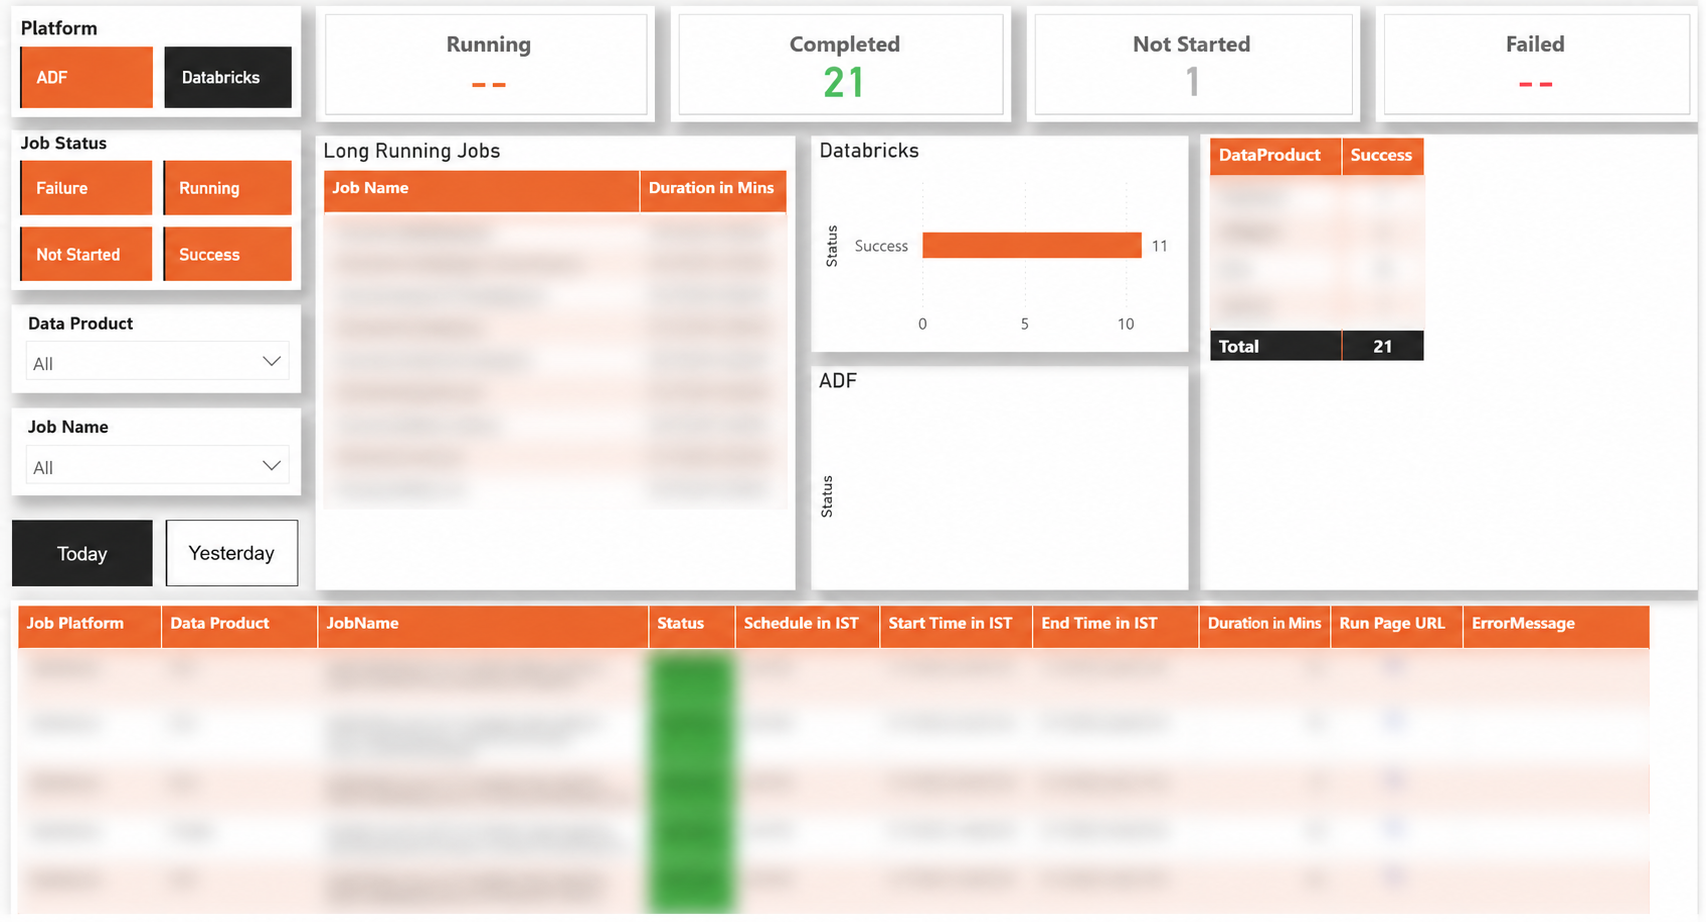
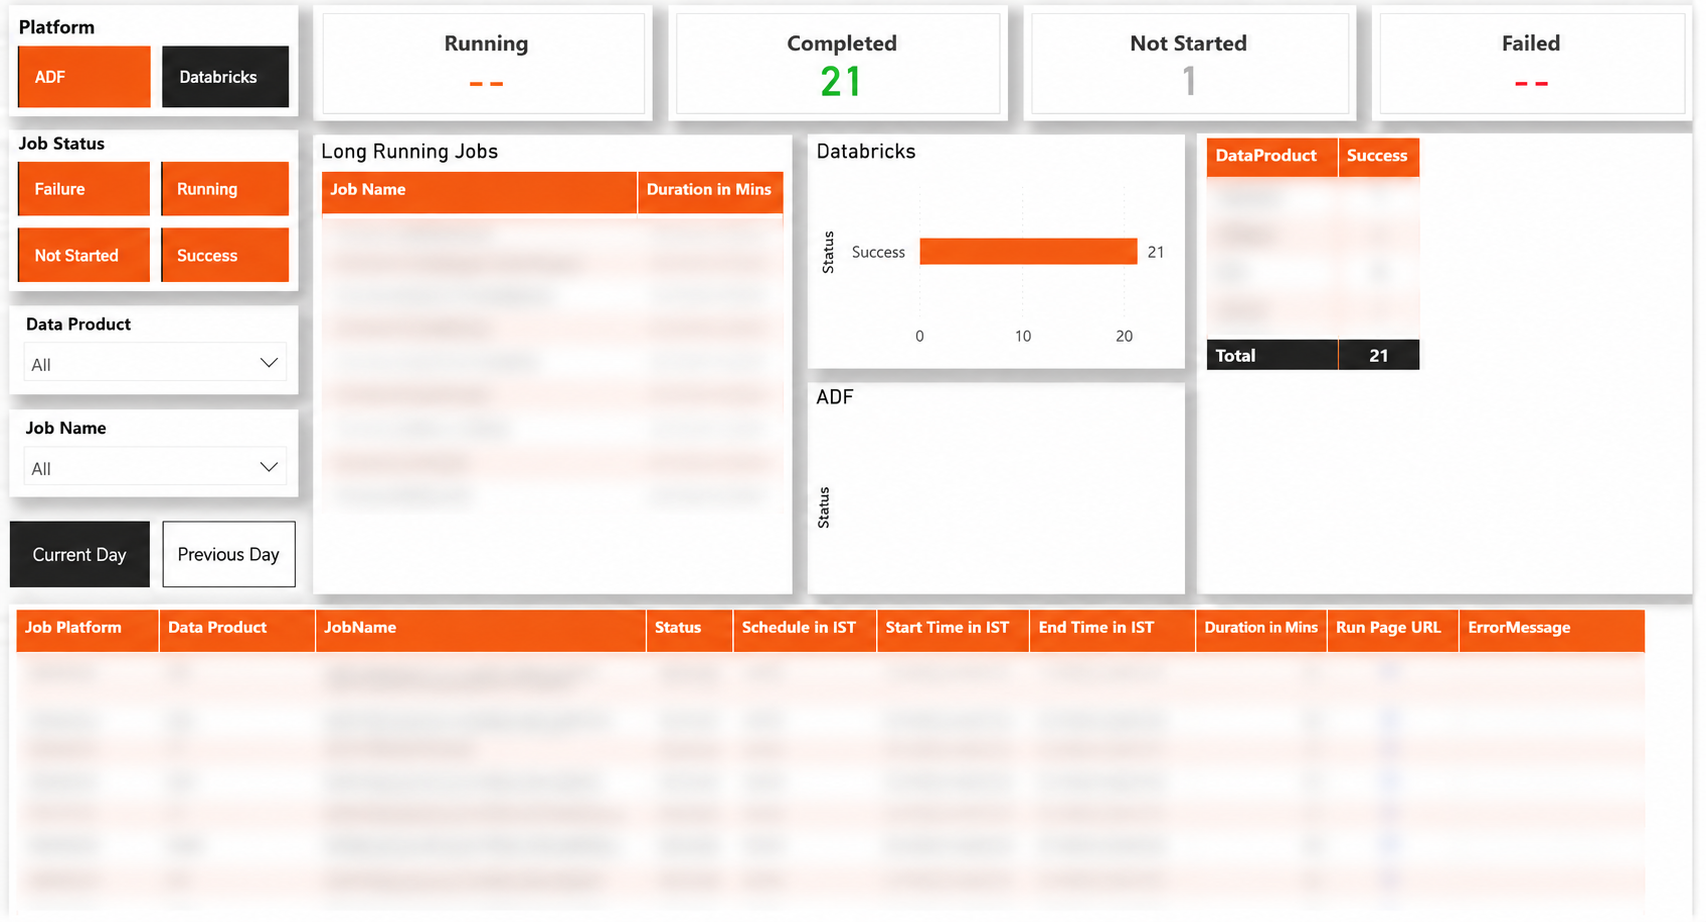
Add system improvements, update architecture docs, and enhance SQL views

diff --git a/src/adf_monitor/adf_jobs.py b/src/adf_monitor/adf_jobs.py
@@ -241,24 +241,31 @@ def databaseUpdater(jobs, error_message: str, schedule: str, Data_factory: str,
 
     incident_number = None
 
-    if status == 'Failed':
-        try:
-            incident_number = create_servicenow_incident(
-                Instance,
-                pipeline_name,
-                error_message.replace("''", "'"),
-                urgency="3",
-                impact="3",
-                run_url=RunPageURL
-            )
-        except Exception as e:
-            logging.error(f"[ERROR] ServiceNow incident creation failed for {pipeline_name}: {e}")
-
     conn = None
     cursor = None
     try:
         conn = get_db_connection()
         cursor = conn.cursor()
+ 
+        if status == 'Failed':
+            check_query = "SELECT 1 FROM [jobmonitoring].[jobRuns] WHERE JobRunId = ? AND Status = 'FAILURE'"
+            cursor.execute(check_query, JobRunId)
+            already_failed = cursor.fetchone()
+ 
+            if already_failed:
+                logging.info(f"RunId {JobRunId} already logged as Failed for {pipeline_name}. Skipping incident creation and alert.")
+            else:
+                try:
+                    incident_number = create_servicenow_incident(
+                        Instance,
+                        pipeline_name,
+                        error_message.replace("''", "'"),
+                        urgency="3",
+                        impact="3",
+                        run_url=RunPageURL
+                    )
+                except Exception as e:
+                    logging.error(f"[ERROR] ServiceNow incident creation failed for {pipeline_name}: {e}")
 
         # Use parameter binding for safety and correctness
         query = """

diff --git a/README.md b/README.md
@@ -8,7 +8,19 @@
 
 ## 📋 Overview
 
-This system automates the monitoring of **150+ ADF pipelines** and **45+ Databricks jobs** across **30 data products**, eliminating approximately **25 hours/week** of manual monitoring effort for a team of 25 engineers.
+This system automates the monitoring of **ADF pipelines** and **Databricks jobs** across multiple data products, providing real-time failure detection, automated alerting, and incident management. The architecture is fully config-driven — adding a new pipeline or job requires a single INSERT statement in the master table, making it horizontally scalable to any number of pipelines, jobs, and data products without code changes.
+
+### Scalability & Effort Savings
+
+The automation's impact scales linearly with the number of monitored jobs. Here's an example:
+
+| Scenario | Pipelines & Jobs | Team Size | Manual Effort Replaced |
+|----------|-----------------|-----------|----------------------|
+| Small team | 50 pipelines, 15 Databricks jobs | 10 engineers | ~8–10 hours/week |
+| Medium team | 150 pipelines, 45 Databricks jobs | 25 engineers | ~20–25 hours/week |
+| Large team | 500 pipelines, 100 Databricks jobs | 50 engineers | ~60–75 hours/week |
+
+**How the estimate works**: Each pipeline/job requires ~2–3 minutes of manual status checking per day (opening the portal, navigating to the run, checking status, noting failures). With 200 scheduled executions daily, that's ~400–600 minutes (~7–10 hours) of checking alone. Add failure triage (~30 min/day), incident creation (~15 min/day), status reporting (~20 min/day), and re-trigger follow-up (ongoing) — the total effort becomes substantial. This automation reduces all of it to zero manual effort.
 
 ### What It Does
 
@@ -19,7 +31,7 @@ This system automates the monitoring of **150+ ADF pipelines** and **45+ Databri
 | **Incident Management** | Automatically creates ServiceNow incidents with smart deduplication (one per pipeline per day) |
 | **Self-Healing Dashboard** | Rechecks failed jobs every 15 minutes — auto-corrects status when manual re-triggers succeed |
 | **Long-Running Detection** | Tiered threshold algorithm flags jobs exceeding expected duration |
-| **Centralized Dashboard** | SQL views powering a Power BI dashboard with real-time status, failure logs, and 7-day historical trends |
+| **Centralized Dashboard** | SQL views powering a Power BI dashboard with real-time status (current + previous day) and failure logs |
 
 ---
 
@@ -31,12 +43,12 @@ The system follows an event-driven, serverless architecture deployed entirely on
 ┌──────────────────┐     REST API      ┌───────────────────────┐     HTTP POST     ┌─────────────────┐
 │  Azure Data      │◄─────────────────►│  Azure Functions      │─────────────────►│  Azure Logic App │
 │  Factory         │                   │  (Python, Timer)      │                   │  → Teams Alerts  │
-│  150+ Pipelines  │                   │                       │                   └─────────────────┘
+│  ADF Pipelines   │                   │                       │                   └─────────────────┘
 └──────────────────┘                   │  ┌─────────────────┐  │     REST API     ┌─────────────────┐
                                        │  │ ADF Monitor     │  │─────────────────►│  ServiceNow     │
 ┌──────────────────┐     REST API      │  │ (every 5 min)   │  │                   │  Auto Incidents  │
 │  Databricks      │◄─────────────────►│  ├─────────────────┤  │                   └─────────────────┘
-│  45+ Jobs        │                   │  │ DB Monitor      │  │
+│  Databricks Jobs │                   │  │ DB Monitor      │  │
 └──────────────────┘                   │  │ (every 5 min)   │  │     ODBC        ┌─────────────────┐
                                        │  ├─────────────────┤  │─────────────────►│  Azure SQL DB   │
                                        │  │ Recheck Monitor │  │                   │  jobmonitoring   │
@@ -142,7 +154,7 @@ Job-Monitoring-Automation/
 | `jobsMaster` | Databricks job registration — job ID, workspace, schedule |
 | `DataProductConfig` | Product metadata — POC name, assignee ID, CMDB CI for incident routing |
 | `jobRuns` | Current day's run records (status, timestamps, run URLs) |
-| `JobRunsHistory` | Historical run data for 7-day Power BI trends |
+| `JobRunsHistory` | Historical run data for Power BI trending |
 | `failureLogs` | Active failure records (auto-deleted when re-trigger succeeds) |
 | `incident_log` | ServiceNow incident deduplication (one per pipeline per day) |
 | `databricks_alert_log` | Databricks Teams alert deduplication (one per run_id) |
@@ -156,7 +168,7 @@ Job-Monitoring-Automation/
 | `vw_DatabricksJobSchedules` | Scheduling logic — which Databricks jobs need polling now (30-min window) |
 | `VwRptJobsMaster` | Dashboard — unified master combining ADF + Databricks |
 | `VwRptJobsRuns` | Dashboard — all runs with IST conversion + long-running flags |
-| `VwRptJobsFailureLogs` | Dashboard — failure details for 7-day trending |
+| `VwRptJobsFailureLogs` | Dashboard — failure details for trending |
 | `VwRptJobsStatus` | Dashboard — status dimension for Power BI filters |
 
 ### Stored Procedures

diff --git a/docs/architecture.md b/docs/architecture.md
@@ -11,13 +11,13 @@ The Job Monitoring Automation system follows a **serverless, event-driven archit
 ## 1. Data Pipeline Layer (Monitored Systems)
 
 ### Azure Data Factory (ADF)
-- **150+ pipelines** across multiple data factories and subscriptions
+- ADF pipelines across multiple data factories and subscriptions
 - Pipelines orchestrate data movement and transformation
 - Many ADF pipelines use Execute Pipeline activities that make REST API calls to Databricks jobs
 - Monitored via the **ADF Management SDK** (`azure.mgmt.datafactory`)
 
 ### Databricks
-- **45+ jobs** across multiple workspaces
+- Databricks jobs across multiple workspaces
 - Jobs handle compute-heavy data processing and transformations
 - Monitored via the **Databricks REST API 2.1** (`/api/2.1/jobs/runs/list` and `/api/2.1/jobs/runs/get`)
 
@@ -75,7 +75,7 @@ All monitoring data is stored in the `jobmonitoring` schema:
          ▼                            ▼
 ┌─────────────────┐      ┌────────────────────────┐
 │  failureLogs    │      │  JobRunsHistory        │
-│  (Active Fails) │      │  (7-day Archive)       │
+│  (Active Fails) │      │  (Archive)             │
 └─────────────────┘      └────────────────────────┘
 ```
 
@@ -122,7 +122,7 @@ The Power BI dashboard connects to SQL Server via **DirectQuery** for real-time 
 - **Data Product Filter**: Drill down by data product
 - **Long Running Jobs Panel**: Highlights jobs exceeding expected duration
 - **Job Detail Table**: Full run details with run page URLs for direct navigation
-- **Historical Trends**: 7-day failure and run history
+- **Historical Trends**: Failure and run history
 
 ---
 